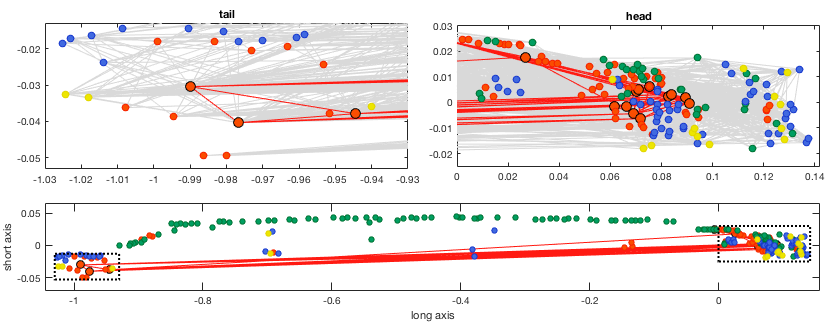
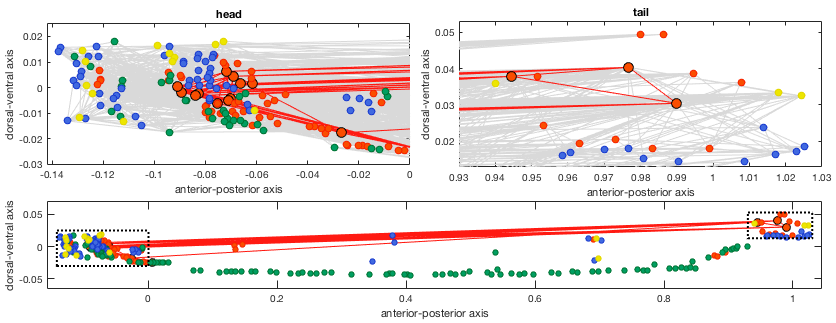
Roger's comments part 2

diff --git a/CelegansHubs.tex b/CelegansHubs.tex
@@ -644,22 +644,20 @@ Our analysis is presented in five parts:
 Previous work has demonstrated the importance of spatial effects in driving patterns of gene expression, with more proximal brain areas exhibiting more similar gene expression patterns than more distant brain areas \cite{Krienen:2016eq, Fulcher:2016ck, Pantazatos:2016ir, Richiardi:2017hb}.
 Connection probability also decreases with spatial separation between mammalian brain areas \cite{Henderson:2014fg, Horvat:2016ia, Wang:2016gg, Markov:2013jo, Fulcher:2016ck} and neurons \cite{Levy:2012dy}, and between \emph{C. elegans} neurons (cf. Fig.~S1 of \cite{Azulay:2016cg}).
 Many aspects of connectome organization can be partially explained by geometric effects, such as the decreasing connection probability with increasing separation distance \cite{Henderson:2014fg, Roberts2016, Horvat:2016ia}.
-Unlike network analyses of mammalian brains, where all neurons are confined to a spatially contiguous organ, neurons of the \emph{C. elegans} nervous system are distributed throughout the entire organism, forming a dense cluster of 147 neurons in the head (all within 130\,$\mu m$), 105 sparser, mostly motor neurons (75\%) in the body (spanning 1.02\,mm), and another dense cluster of 27 neurons in the tail (all within 90\,$\mu$m of each other), as plotted in Fig.~\ref{fig:neuronsSpace}.
+Unlike network analyses of mammalian brains, where all neurons are confined to a spatially contiguous organ, neurons of the \emph{C. elegans} nervous system are distributed throughout the entire organism, forming a dense cluster of 147 neurons in the head (all within 130\,$\mu$m), 105 sparser neurons in the body (spanning 1.02\,mm), which are predominantly motor neurons (75\%), and another dense cluster of 27 neurons in the tail (all within 90\,$\mu$m of each other), as plotted in Fig.~\ref{fig:neuronsSpace}.
 In order to understand relationships between connectivity and gene expression, we first need to understand spatial effects on both measurements.
 % To ensure that relationships between connectivity and gene expression are not driven by their mutual spatial dependency,
 
 % The connection probability for pairs of neurons decays sharply as a function of the physical distance between them, excluding connections between the body and head, and between the body and tail, cf. Figs.~\ref{fig:connectionProb}A,B), mirroring recent results of mesoscale mammalian brains, in mouse \cite{Goulas:2016hr, Fulcher:2016ck}, and rodents and primates \cite{Horvat:2016ia}.
 
 % ------------------------------------------------------------------------------
-% \paragraph*{S5 Fig.}
-% {\bf Spatial distribution of rich links, and neuron types across the C. elegans nervous system. }
 % <<VisRichConns>>
 \begin{figure}[h]
 \centering
     \includegraphics[width=1\textwidth]{SpatialPlot.png}
 \caption{
 \textbf{Hub neurons are distributed between the head and tail}.
-Neurons are positioned along the Posterior (P)--Anterior (A) (horizontal), and Ventral (V)--Dorsal (D) (vertical) axes.
+Neurons are positioned along the anterior--posterior (horizontal), and dorsal--ventral (vertical) axes.
 % Definitions of posterior/anterior/ventral/dorsal from Varier.
 Neurons are colored by type:
 (i) interneuron (85 neurons, orange),
@@ -908,10 +906,11 @@ In this topological rich-club regime, both feed-in and feed-out connections exhi
 %]][[TODO-AA: Seems like feed-in actually the lowest now??]].
 Full distributions of $r_\phi$ for each edge type at a hub threshold of $k > 44$ are in Fig.~\ref{fig:S_RFPdistributions}.
 
-These results show (i) increased coexpression in connected pairs of nodes;
+In summary, our results reveal:
+(i) increased coexpression in connected pairs of nodes;
 (ii) the highest coexpression in rich connections; and
-(iii) lowest coexpression in peripheral connections.
-Obtained using incomplete binary annotations of gene expression across just 948 genes in a microscale neuronal connectome, thay are consistent with a prior analysis of the expression of over 17\,000 genes across 213 regions of the mesoscale mouse connectome.
+(iii) lowest coexpression in peripheral connections;
+These results, obtained using incomplete binary annotations of gene expression across 948 genes in a microscale neuronal connectome, are consistent with a prior analysis of the expression of over 17\,000 genes across 213 regions of the mesoscale mouse connectome \cite{Fulcher:2016ck}.
 % (iii) intermediate coexpression in feeder connections; and
 
 \subsection*{Potential drivers of elevated coexpression between hubs}
